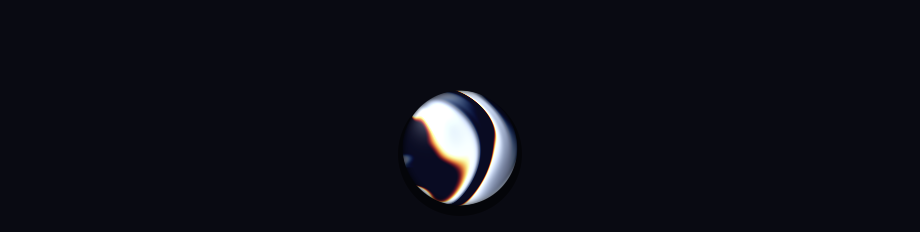
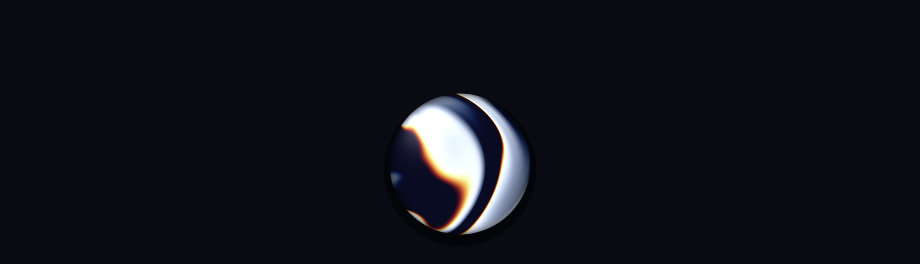
Slightly larger orb

Changed region(s): [[0.4261, 0.3319, 0.5783, 0.9052]]

diff --git a/Sources/Murmur/Pill.swift b/Sources/Murmur/Pill.swift
@@ -53,7 +53,7 @@ final class PillController {
     }
 
     private func makePanel() -> NSPanel {
-        let panel = NSPanel(contentRect: NSRect(x: 0, y: 0, width: 460, height: 84),
+        let panel = NSPanel(contentRect: NSRect(x: 0, y: 0, width: 460, height: 100),
                             styleMask: [.borderless, .nonactivatingPanel], backing: .buffered, defer: false)
         panel.isOpaque = false
         panel.backgroundColor = .clear
@@ -73,7 +73,7 @@ final class PillController {
         let mouse = NSEvent.mouseLocation
         let screen = NSScreen.screens.first { $0.frame.contains(mouse) } ?? NSScreen.main
         guard let frame = screen?.visibleFrame else { return }
-        panel.setFrameOrigin(NSPoint(x: frame.midX - panel.frame.width / 2, y: frame.minY + 18))
+        panel.setFrameOrigin(NSPoint(x: frame.midX - panel.frame.width / 2, y: frame.minY + 12))
     }
 }
 
@@ -109,7 +109,7 @@ struct PillView: View {
             }
 
             MercuryOrb(motion: motion, model: model, thinking: !listening, alert: problem, still: reduceMotion)
-                .frame(width: listening ? 62 : 36, height: listening ? 62 : 36)
+                .frame(width: listening ? 76 : 40, height: listening ? 76 : 40)
                 .background(Circle().fill(.black.opacity(0.5)).blur(radius: 5).offset(y: 3))
 
             if !listening {
@@ -131,7 +131,7 @@ struct PillView: View {
         }
         .padding(.leading, listening ? 0 : 5)
         .padding(.trailing, listening ? 0 : 18)
-        .frame(height: listening ? 62 : 46)
+        .frame(height: listening ? 76 : 50)
         .background {
             Color.clear
                 .modifier(DarkGlass(shape: Capsule()))

diff --git a/Sources/Murmur/ScreenRenderer.swift b/Sources/Murmur/ScreenRenderer.swift
@@ -36,7 +36,7 @@ enum ScreenRenderer {
                 model.levels = (0..<PillModel.barCount).map { i in
                     Float(0.25 + 0.6 * abs(sin(Double(i) * 0.9)) * abs(cos(Double(i) * 0.37)))
                 }
-                snapshot(PillView(model: model).environment(\.staticRender, true).background(Theme.window), size: NSSize(width: 460, height: 84),
+                snapshot(PillView(model: model).environment(\.staticRender, true).background(Theme.window), size: NSSize(width: 460, height: 100),
                          appearance: appearance, to: directory.appendingPathComponent("pill-\(name)-\(suffix).png"))
             }
         }
